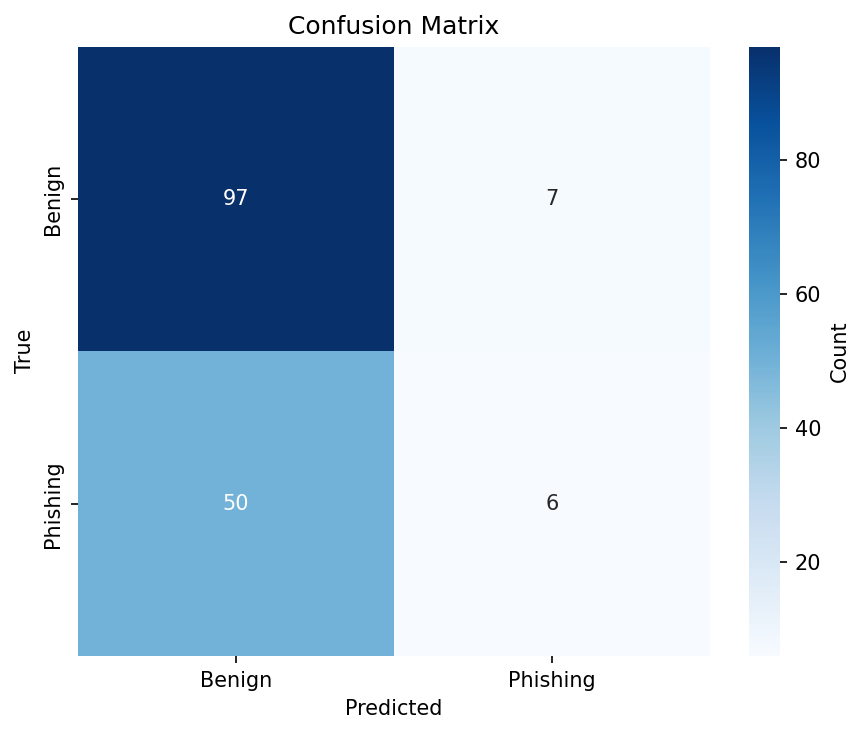
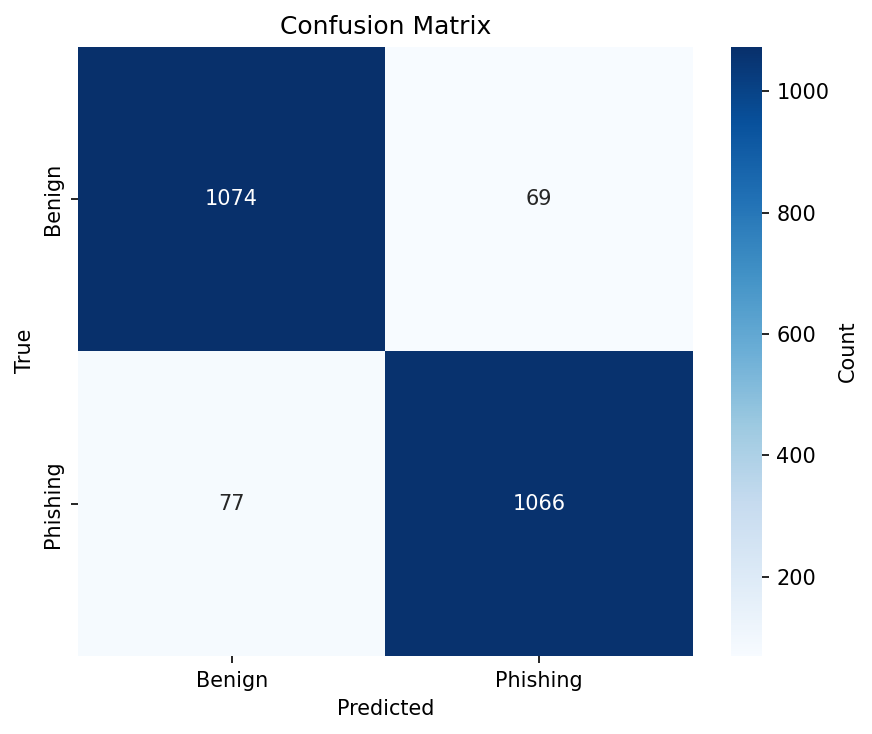
updated with new dataset

diff --git a/src/data.py b/src/data.py
@@ -31,7 +31,7 @@ def load_dataset(
         X_train, X_test, y_train, y_test, feature_names
     """
     if filepath is None:
-        for name in ("phishing.csv", "url_dataset.csv", "train.csv"):
+        for name in ("phishing.csv", "dataset_phishing.csv", "url_dataset.csv", "train.csv"):
             candidate = os.path.join(DEFAULT_RAW_DIR, name)
             if os.path.isfile(candidate):
                 filepath = candidate
@@ -52,6 +52,10 @@ def load_dataset(
 
     df = pd.read_csv(filepath)
 
+    # Use "status" as label if dataset has it (e.g. legitimate/phishing)
+    if label_col not in df.columns and "status" in df.columns:
+        label_col = "status"
+
     # Basic cleaning: drop rows with missing target
     if label_col not in df.columns:
         raise ValueError(
@@ -59,12 +63,16 @@ def load_dataset(
         )
     df = df.dropna(subset=[label_col])
 
-    # Ensure binary numeric labels
-    y = np.asarray(df[label_col]).astype(int)
-    if set(np.unique(y)) - {0, 1}:
-        # Map common string labels
-        mapping = {"benign": 0, "phishing": 1, "legitimate": 0, "safe": 0}
-        y = np.array([mapping.get(str(v).lower(), v) for v in y]).astype(int)
+    # Ensure binary numeric labels (support string labels like legitimate/phishing)
+    raw_labels = np.asarray(df[label_col])
+    str_mapping = {"benign": 0, "phishing": 1, "legitimate": 0, "safe": 0}
+    try:
+        y = raw_labels.astype(int)
+    except (ValueError, TypeError):
+        y = np.array([str_mapping.get(str(v).lower(), 0) for v in raw_labels]).astype(int)
+    else:
+        if set(np.unique(y)) - {0, 1}:
+            y = np.array([str_mapping.get(str(v).lower(), v) for v in raw_labels]).astype(int)
 
     # Feature matrix: all numeric columns except label
     exclude = [label_col, "url", "email", "id"]  # common non-feature columns

diff --git a/README.md b/README.md
@@ -1,9 +1,15 @@
 # ai-cyber-lab2-am4052
 
 **CSEC 559/659 — Generative AI in Cybersecurity, Lab 2**  
-Track 1: Phishing Detection (binary classification of URLs/emails into phishing vs. benign).
+Track 1: Phishing Detection
 
-## Project structure
+---
+
+## 1. Project description
+
+This project implements a **phishing detection** pipeline for binary classification of URLs (or URL-derived features) into **phishing** vs **benign**. It provides data loading and preprocessing, baseline classifiers (Logistic Regression, Random Forest, SVM), evaluation with standard metrics, and an exploratory data analysis (EDA) notebook. The goal is to establish a reproducible baseline that can be extended with better features or models.
+
+**Repository layout:**
 
 ```
 ai-cyber-lab2-am4052/
@@ -11,66 +17,98 @@ ai-cyber-lab2-am4052/
 ├── requirements.txt
 ├── .gitignore
 ├── data/
-│   ├── raw/           # Place your dataset CSV here (e.g. phishing.csv)
-│   └── processed/     # Processed/sample data
+│   ├── raw/              # Your dataset CSV (e.g. phishing.csv)
+│   └── processed/        # Processed / sample data
 ├── notebooks/
-│   └── 01_eda.ipynb   # EDA: class distribution, feature summaries, insight
+│   └── 01_eda.ipynb      # EDA: class distribution, feature summaries, insight
 ├── src/
 │   ├── __init__.py
-│   ├── data.py        # Load, clean, split data
-│   ├── train.py       # Train baseline (LR / RF / SVM)
-│   ├── eval.py        # Evaluate, save metrics + confusion matrix
-│   └── utils.py       # Helpers
+│   ├── data.py           # Load, clean, train/test split
+│   ├── train.py          # Train baseline (LR / RF / SVM)
+│   ├── eval.py           # Evaluate and save metrics + confusion matrix
+│   └── utils.py          # Helpers
 └── results/
-    ├── metrics.json         # Accuracy, precision, recall, F1
-    └── confusion_matrix.png # Confusion matrix plot
+    ├── metrics.json
+    └── confusion_matrix.png
 ```
 
-## Setup
+---
+
+## 2. Dataset source and features
+
+- **Source:** Raw data is **dataset_phishing.csv** (from `data/raw/dataset_phishing.csv.zip`). This is a public-style URL phishing dataset with one row per URL and 87 numeric features plus a `status` label (legitimate/phishing). A small **synthetic sample** remains in `data/processed/sample_phishing.csv` (800 rows) if you run without the raw file.
+- **Format:** CSV with numeric feature columns; target is **status**: `legitimate` = benign (0), `phishing` = malicious (1). The `url` column is excluded from features.
+- **Current dataset (dataset_phishing.csv):**  
+  **11,430 samples**, **87 features**, **balanced classes** (5,715 legitimate, 5,715 phishing).  
+  Features include URL structure (e.g. `length_url`, `length_hostname`, `ip`, `nb_dots`, `nb_slash`), character and word statistics (`ratio_digits_url`, `shortest_word_host`, `longest_word_path`), domain/page cues (`nb_hyperlinks`, `ratio_intHyperlinks`, `login_form`, `iframe`), and external signals (`whois_registered_domain`, `domain_age`, `google_index`, `page_rank`), among others. All are numeric; no encoding beyond scaling is applied.
+
+---
+
+## 3. Installation instructions
+
+1. Clone or download this repository and `cd` into the project directory.
+2. Create and activate a virtual environment (recommended):
+
+   ```bash
+   python3 -m venv .venv
+   source .venv/bin/activate   # Windows: .venv\Scripts\activate
+   ```
+
+3. Install dependencies:
+
+   ```bash
+   pip install -r requirements.txt
+   ```
+
+4. (Optional) Place your dataset in `data/raw/` (e.g. unzip `dataset_phishing.csv.zip` to get `dataset_phishing.csv`). If no raw file is present, the code falls back to `data/processed/sample_phishing.csv`.
+
+---
+
+## 4. Training and evaluation commands
+
+**Training** (default: Logistic Regression; optional: Random Forest or SVM):
 
 ```bash
-python3 -m venv .venv
-source .venv/bin/activate   # Windows: .venv\Scripts\activate
-pip install -r requirements.txt
+python -m src.train --model lr
+# Or: --model rf | --model svm
+# Custom data: python -m src.train --model lr --data data/raw/phishing.csv
 ```
 
-## Data
-
-- Place your CSV in `data/raw/` (e.g. `phishing.csv` or `url_dataset.csv`).
-- Required: numeric feature columns and a **label** column (`0` = benign, `1` = phishing).
-- Optional: a sample dataset is provided in `data/processed/sample_phishing.csv` so you can run the pipeline without your own file.
-
-## Usage
-
-**Train a baseline model** (default: Logistic Regression):
-
-```bash
-python -m src.train --model lr    # or rf, svm
-python -m src.train --model rf --data data/raw/phishing.csv
-```
-
-**Evaluate** (uses the last saved model and the same data split):
+**Evaluation** (uses the last saved model and the same data split):
 
 ```bash
 python -m src.eval
 ```
 
-Outputs: `results/metrics.json`, `results/confusion_matrix.png`.
+Outputs are written to `results/metrics.json` and `results/confusion_matrix.png`.
 
-**EDA:**
+**EDA:** Open and run all cells in `notebooks/01_eda.ipynb` for class distribution, feature summaries, and a short written insight.
 
-Open `notebooks/01_eda.ipynb` and run all cells for class distribution, feature summaries, and a short written insight.
+---
 
-## Baseline models
+## 5. Baseline results
 
-- `lr` — Logistic Regression  
-- `rf` — Random Forest  
-- `svm` — SVM (RBF kernel)
+Results below are from **dataset_phishing.csv** (11,430 samples, 87 features) and the **Logistic Regression** baseline (default seed 42, 80/20 stratified train/test split).
 
-## Evaluation artifacts
+| Metric    | Value   |
+|----------|--------|
+| Accuracy | **0.936** |
+| Precision| **0.939** |
+| Recall   | **0.933** |
+| F1-score | **0.936** |
 
-- **results/metrics.json**: `accuracy`, `precision`, `recall`, `f1_score`
-- **results/confusion_matrix.png**: Confusion matrix heatmap (Benign vs Phishing)
+The balanced, feature-rich URL dataset yields strong baseline performance. Further gains may come from other models (e.g. Random Forest, SVM), feature selection, or hyperparameter tuning.
+
+---
+
+## 6. Ethics and safety consideration
+
+- **Purpose:** This project is for educational and research use in a controlled course/lab setting. Phishing detectors can help protect users but must be designed and deployed responsibly.
+- **Bias and fairness:** Models may reflect biases in the training data (e.g. over-representation of certain domains or languages). Care should be taken to avoid disproportionate false positives or negatives for particular groups or legitimate sites.
+- **Misuse:** The same methods could be misused to evade detection or to target individuals. The code and models are intended for defensive use only (e.g. filtering or flagging suspicious URLs in a security product), not for crafting or distributing phishing content.
+- **Data and privacy:** If you use datasets containing real URLs or user data, ensure you comply with their licenses, terms of use, and applicable privacy regulations. Do not commit sensitive or personal data to the repository.
+
+---
 
 ## License
 
